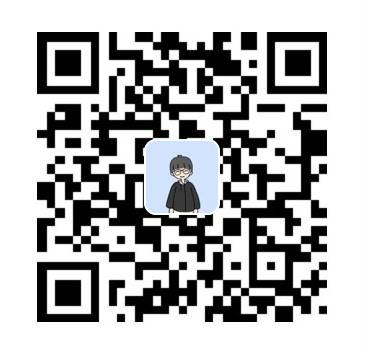
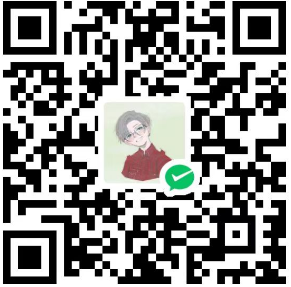
fix:修改图片

diff --git a/example/.vuepress/config.js b/example/.vuepress/config.js
@@ -63,7 +63,7 @@ module.exports = {
             ],
             authorConfig: {
                 enable: true,
-                avatar: '/img/avatar.jpg',
+                avatar: '/img/ericlin.jpg',
                 bookmark: true,
                 github: 'https://github.com/ShnHz',
                 qq: 123456789,
